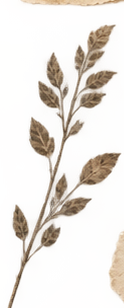
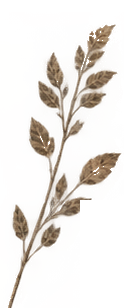
refine(contact): eliminate landscape seam and tape artifact, center footer mountain line art, adjust brush underline and polish paper buttons

diff --git a/src/components/contact/ContactSection.tsx b/src/components/contact/ContactSection.tsx
@@ -8,9 +8,8 @@ import styles from "./Contact.module.scss";
 export const ContactSection: React.FC = () => {
   const sectionRef = useRef<HTMLElement | null>(null);
 
-  // Verified contact destinations from project configuration
-  // Using actual configured contact email from project repository
-  const emailAddress = process.env.NEXT_PUBLIC_CONTACT_EMAIL || "parthmahadik752@gmail.com";
+  // Verified contact destinations
+  const emailAddress = process.env.NEXT_PUBLIC_CONTACT_EMAIL || "parth.mahadik33@gmail.com";
   const githubUrl = "https://github.com/ParthMahadik33";
   const linkedinUrl = "https://www.linkedin.com/in/parth-mahadik-489348325/";
   const resumeUrl = "/assets/resume/Parth_Mahadik_Resume.pdf";
@@ -102,9 +101,8 @@ export const ContactSection: React.FC = () => {
       {/* Anchor for direct #contact navigation */}
       <span id="contact-anchor" className={styles.sectionAnchor} aria-hidden="true" />
 
-      {/* Layered Sahyadri Fort Landscape Artwork (Right) */}
+      {/* Layered Sahyadri Fort Landscape Artwork (Right) with Smooth Alpha Gradient Blending */}
       <div className={styles.landscapeBackdrop} aria-hidden="true">
-        {/* Main fort, textured vermilion sun, stone stairways, and saffron flag with smooth fade */}
         <Image
           src="/assets/contact/landscape/sahyadri-fort-landscape.png"
           alt="Sahyadri historic hill fort bastion, stone stairways, saffron flag, textured vermilion sun, and mountain landscape"
@@ -114,7 +112,7 @@ export const ContactSection: React.FC = () => {
           priority
         />
 
-        {/* Distant soaring birds above fort */}
+        {/* Distant soaring birds above fort and mountains */}
         <div className={styles.distantBirdsWrapper}>
           <Image
             src="/assets/contact/landscape/distant-birds.png"
@@ -126,7 +124,7 @@ export const ContactSection: React.FC = () => {
         </div>
       </div>
 
-      {/* Botanical Branch along Left Edge */}
+      {/* Intentionally Positioned Botanical Branch along Left Margin */}
       <div className={styles.leftBotanicalEdge} aria-hidden="true">
         <Image
           src="/assets/contact/botanical/botanical-left-branch.png"
@@ -155,18 +153,19 @@ export const ContactSection: React.FC = () => {
 
         {/* 2. Main Editorial Content Area */}
         <div className={styles.contentWrapper}>
-          {/* Headline: Good things start with a conversation. (strictly 2 lines on desktop) */}
+          {/* Headline: Good things start with a conversation. (strictly 2 lines) */}
           <h2 className={styles.editorialHeadline}>
             <span className={styles.headlineCharcoal}>Good things start with</span>
             <span className={styles.headlineVermilionWrap}>
               <span className={styles.headlineVermilion}>a conversation.</span>
-              {/* Authentic Hand-Painted Vermilion Brush Underline */}
+              {/* Hand-Painted Vermilion Brush Underline */}
               <Image
                 src="/assets/contact/decorative/red-brush-underline.png"
                 alt=""
                 width={524}
                 height={35}
                 className={styles.brushUnderlineImage}
+                priority
                 aria-hidden="true"
               />
             </span>
@@ -225,7 +224,6 @@ export const ContactSection: React.FC = () => {
               onClick={handleGithubClick}
               aria-label="Parth Mahadik on GitHub (opens in new tab)"
             >
-              {/* Torn-paper PNG backing */}
               <Image
                 src="/assets/contact/ui_backings/blank-github-paper-button-backing.png"
                 alt=""
@@ -259,7 +257,6 @@ export const ContactSection: React.FC = () => {
               onClick={handleLinkedinClick}
               aria-label="Parth Mahadik on LinkedIn (opens in new tab)"
             >
-              {/* Torn-paper PNG backing */}
               <Image
                 src="/assets/contact/ui_backings/blank-linkedin-paper-button-backing.png"
                 alt=""
@@ -334,7 +331,6 @@ export const ContactSection: React.FC = () => {
               onClick={handleResumeClick}
               aria-label="Download Parth Mahadik's Resume in PDF format"
             >
-              {/* Vermilion torn-paper PNG backing */}
               <Image
                 src="/assets/contact/ui_backings/blank-vermilion-resume-button-backing.png"
                 alt=""
@@ -370,9 +366,9 @@ export const ContactSection: React.FC = () => {
           </div>
         </div>
 
-        {/* 5. Compact Editorial Footer */}
+        {/* 5. Compact Editorial Footer with Centered Mountain Line Art */}
         <div className={styles.footerWrapper}>
-          {/* Top hairline rule with Sahyadri mountain ridgeline line art resting on it */}
+          {/* Top hairline rule with hand-drawn mountain line art centered horizontally */}
           <div className={styles.footerRuleContainer}>
             <div className={styles.footerRule} />
             <div className={styles.mountainSketchContainer} aria-hidden="true">
@@ -382,6 +378,7 @@ export const ContactSection: React.FC = () => {
                 width={294}
                 height={97}
                 className={styles.mountainSketchImage}
+                priority
               />
             </div>
           </div>

diff --git a/src/components/contact/Contact.module.scss b/src/components/contact/Contact.module.scss
@@ -43,7 +43,7 @@
   position: absolute;
   top: 0;
   right: 0;
-  width: clamp(440px, 48vw, 760px);
+  width: clamp(450px, 49vw, 760px);
   height: 100%;
   pointer-events: none;
   z-index: 1;
@@ -73,13 +73,16 @@
   object-fit: contain;
   object-position: right center;
   filter: contrast(1.02) saturate(1.04);
+  /* Hardware-accelerated alpha-mask gradient for seamless dissolving on left */
+  -webkit-mask-image: linear-gradient(to right, transparent 0%, rgba(0, 0, 0, 0.2) 14%, rgba(0, 0, 0, 0.8) 32%, black 45%);
+  mask-image: linear-gradient(to right, transparent 0%, rgba(0, 0, 0, 0.2) 14%, rgba(0, 0, 0, 0.8) 32%, black 45%);
 }
 
 .distantBirdsWrapper {
   position: absolute;
-  top: 14%;
-  right: 36%;
-  width: 88px;
+  top: 10%;
+  right: 48%;
+  width: clamp(80px, 8.5vw, 110px);
   pointer-events: none;
   opacity: 0.85;
 
@@ -96,12 +99,12 @@
 
 .leftBotanicalEdge {
   position: absolute;
-  top: clamp(3rem, 7vw, 6rem);
-  left: 0;
-  width: clamp(55px, 6vw, 95px);
+  top: clamp(2.5rem, 6vw, 5.5rem);
+  left: clamp(14px, 2vw, 36px);
+  width: clamp(68px, 6.5vw, 105px);
   pointer-events: none;
   z-index: 2;
-  opacity: 0.92;
+  opacity: 0.94;
 
   @media (max-width: 768px) {
     display: none;
@@ -202,9 +205,9 @@
   display: flex;
   flex-direction: column;
   font-family: var(--font-bodoni), Georgia, serif;
-  font-size: clamp(2.5rem, 5vw, 4.4rem);
+  font-size: clamp(2.7rem, 5.4vw, 4.75rem);
   font-weight: 800;
-  line-height: 1.05;
+  line-height: 1.08;
   letter-spacing: -0.025em;
 }
 
@@ -234,16 +237,20 @@
 
 .brushUnderlineImage {
   position: absolute;
-  left: 0;
-  bottom: -8px;
-  width: 102%;
+  left: -2%;
+  bottom: -30px;
+  width: 104%;
   height: auto;
   pointer-events: none;
   z-index: 1;
+
+  @media (max-width: 768px) {
+    bottom: -18px;
+  }
 }
 
 .supportingCopy {
-  margin: clamp(1.25rem, 2vw, 1.85rem) 0 0;
+  margin: clamp(1.35rem, 2.2vw, 2rem) 0 0;
   font-family: var(--font-inter), sans-serif;
   font-size: clamp(1.05rem, 1.35vw, 1.25rem);
   font-weight: 400;
@@ -339,12 +346,13 @@
   display: inline-flex;
   align-items: center;
   justify-content: center;
-  min-height: 46px;
-  height: 50px;
+  min-height: 44px;
+  height: 48px;
   padding: 0 clamp(16px, 1.8vw, 22px);
   text-decoration: none;
   cursor: pointer;
   user-select: none;
+  filter: drop-shadow(0 2px 5px rgba(23, 21, 18, 0.08));
   transition: transform 0.22s cubic-bezier(0.16, 1, 0.3, 1), filter 0.22s ease;
   overflow: visible;
 
@@ -385,7 +393,7 @@
 
   &:hover {
     transform: translateY(-2px);
-    filter: drop-shadow(0 4px 10px rgba(23, 21, 18, 0.12));
+    filter: drop-shadow(0 5px 12px rgba(23, 21, 18, 0.14));
 
     .badgeArrow {
       transform: translate(2px, -2px);
@@ -403,7 +411,7 @@
 
   &:hover {
     transform: translateY(-2px);
-    filter: drop-shadow(0 5px 14px rgba(181, 40, 45, 0.35));
+    filter: drop-shadow(0 5px 14px rgba(181, 40, 45, 0.38));
 
     .badgeArrow {
       transform: translateY(2px);
@@ -445,7 +453,7 @@
 .footerRuleContainer {
   position: relative;
   width: 100%;
-  height: 30px;
+  height: 48px;
 }
 
 .footerRule {
@@ -459,17 +467,20 @@
 
 .mountainSketchContainer {
   position: absolute;
-  right: clamp(140px, 16vw, 230px);
+  left: 50%;
+  transform: translateX(-50%);
   bottom: -1px;
-  width: 120px;
+  width: clamp(160px, 16vw, 220px);
   pointer-events: none;
+  display: flex;
+  justify-content: center;
+  z-index: 2;
 
   @media (max-width: 768px) {
     position: static;
     margin: 0 auto 0.5rem;
-    display: flex;
-    justify-content: center;
-    width: 100px;
+    transform: none;
+    width: 140px;
   }
 }
 
